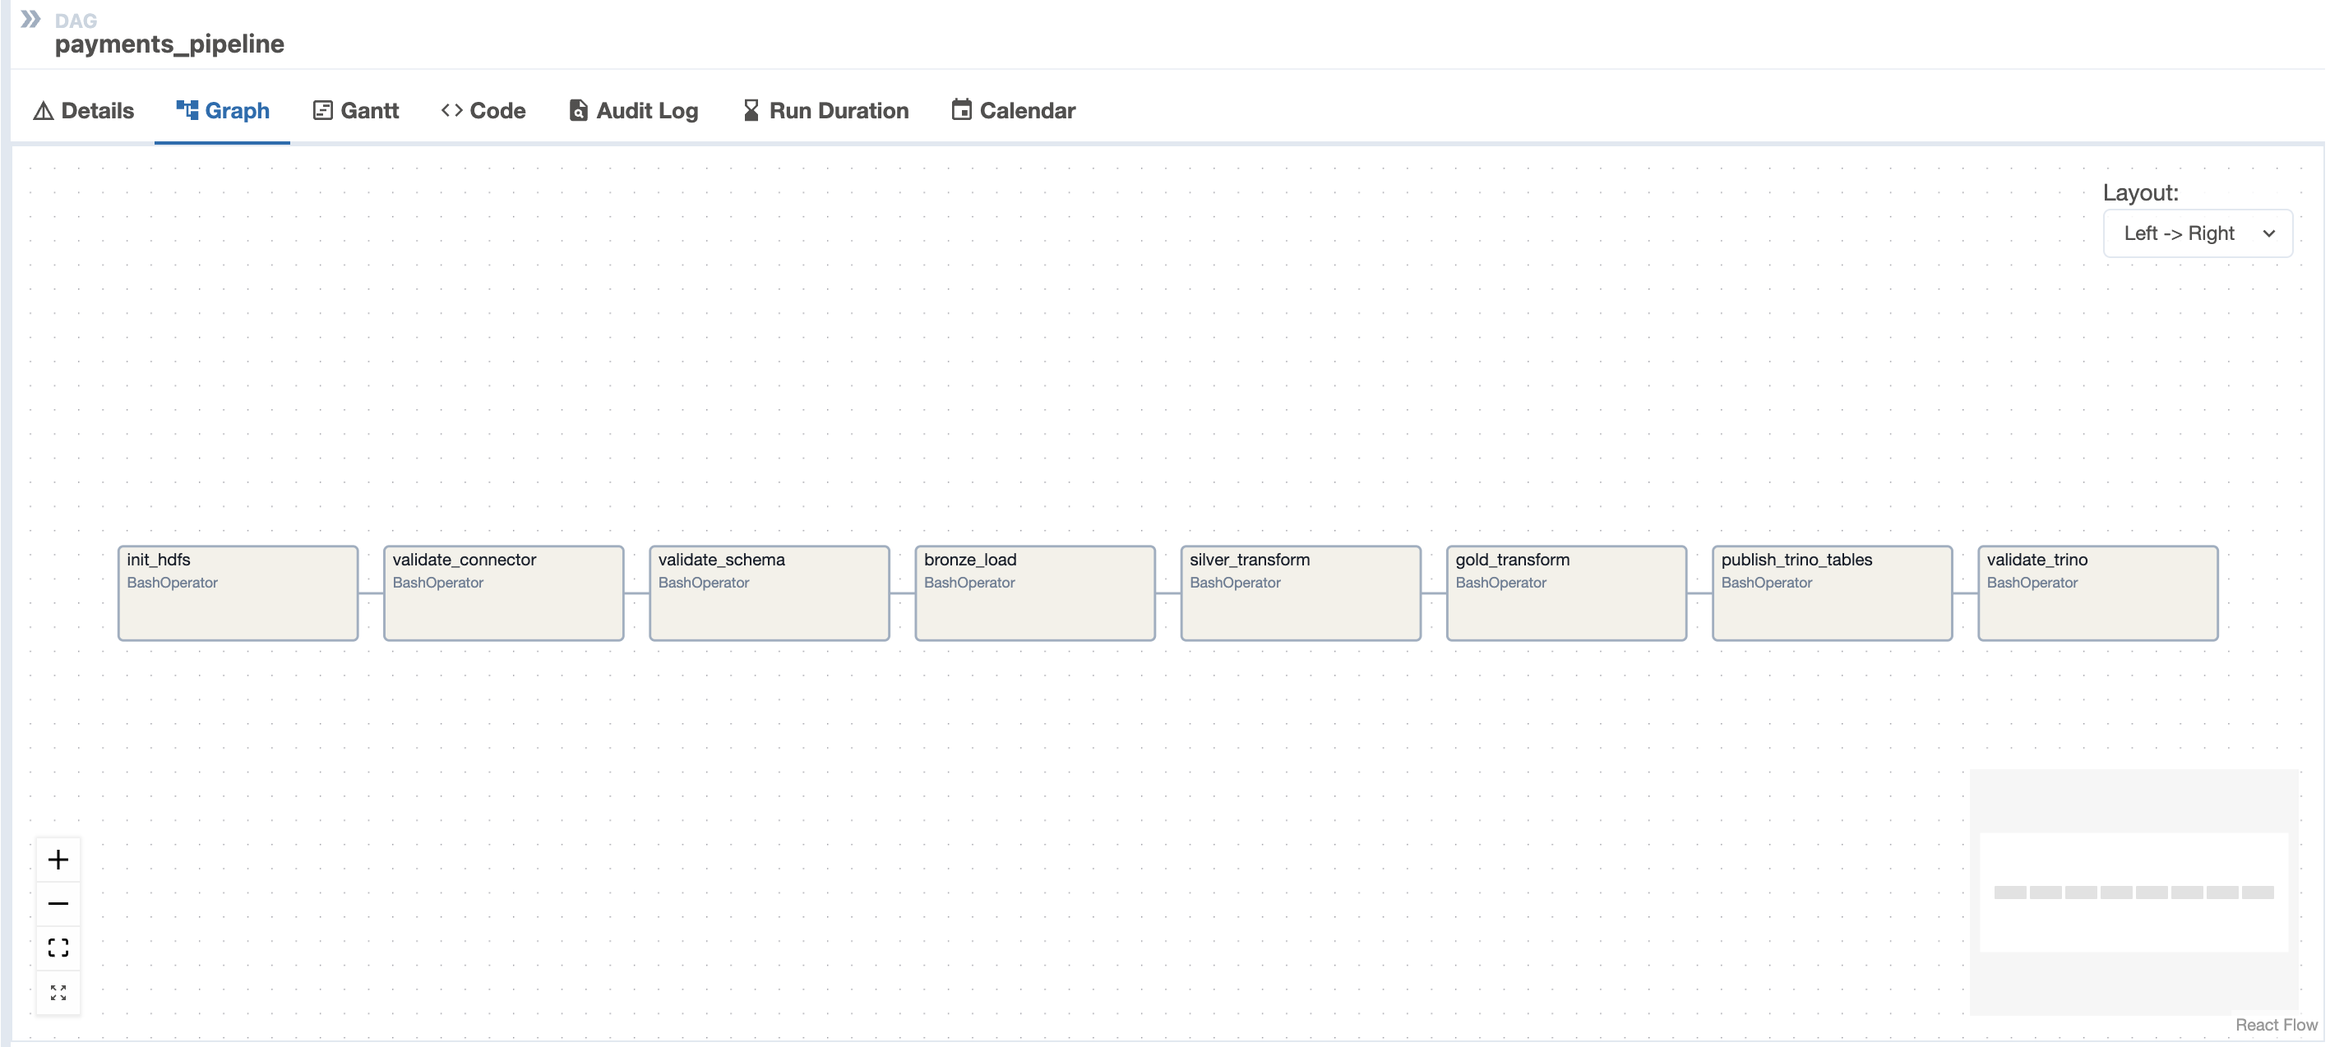
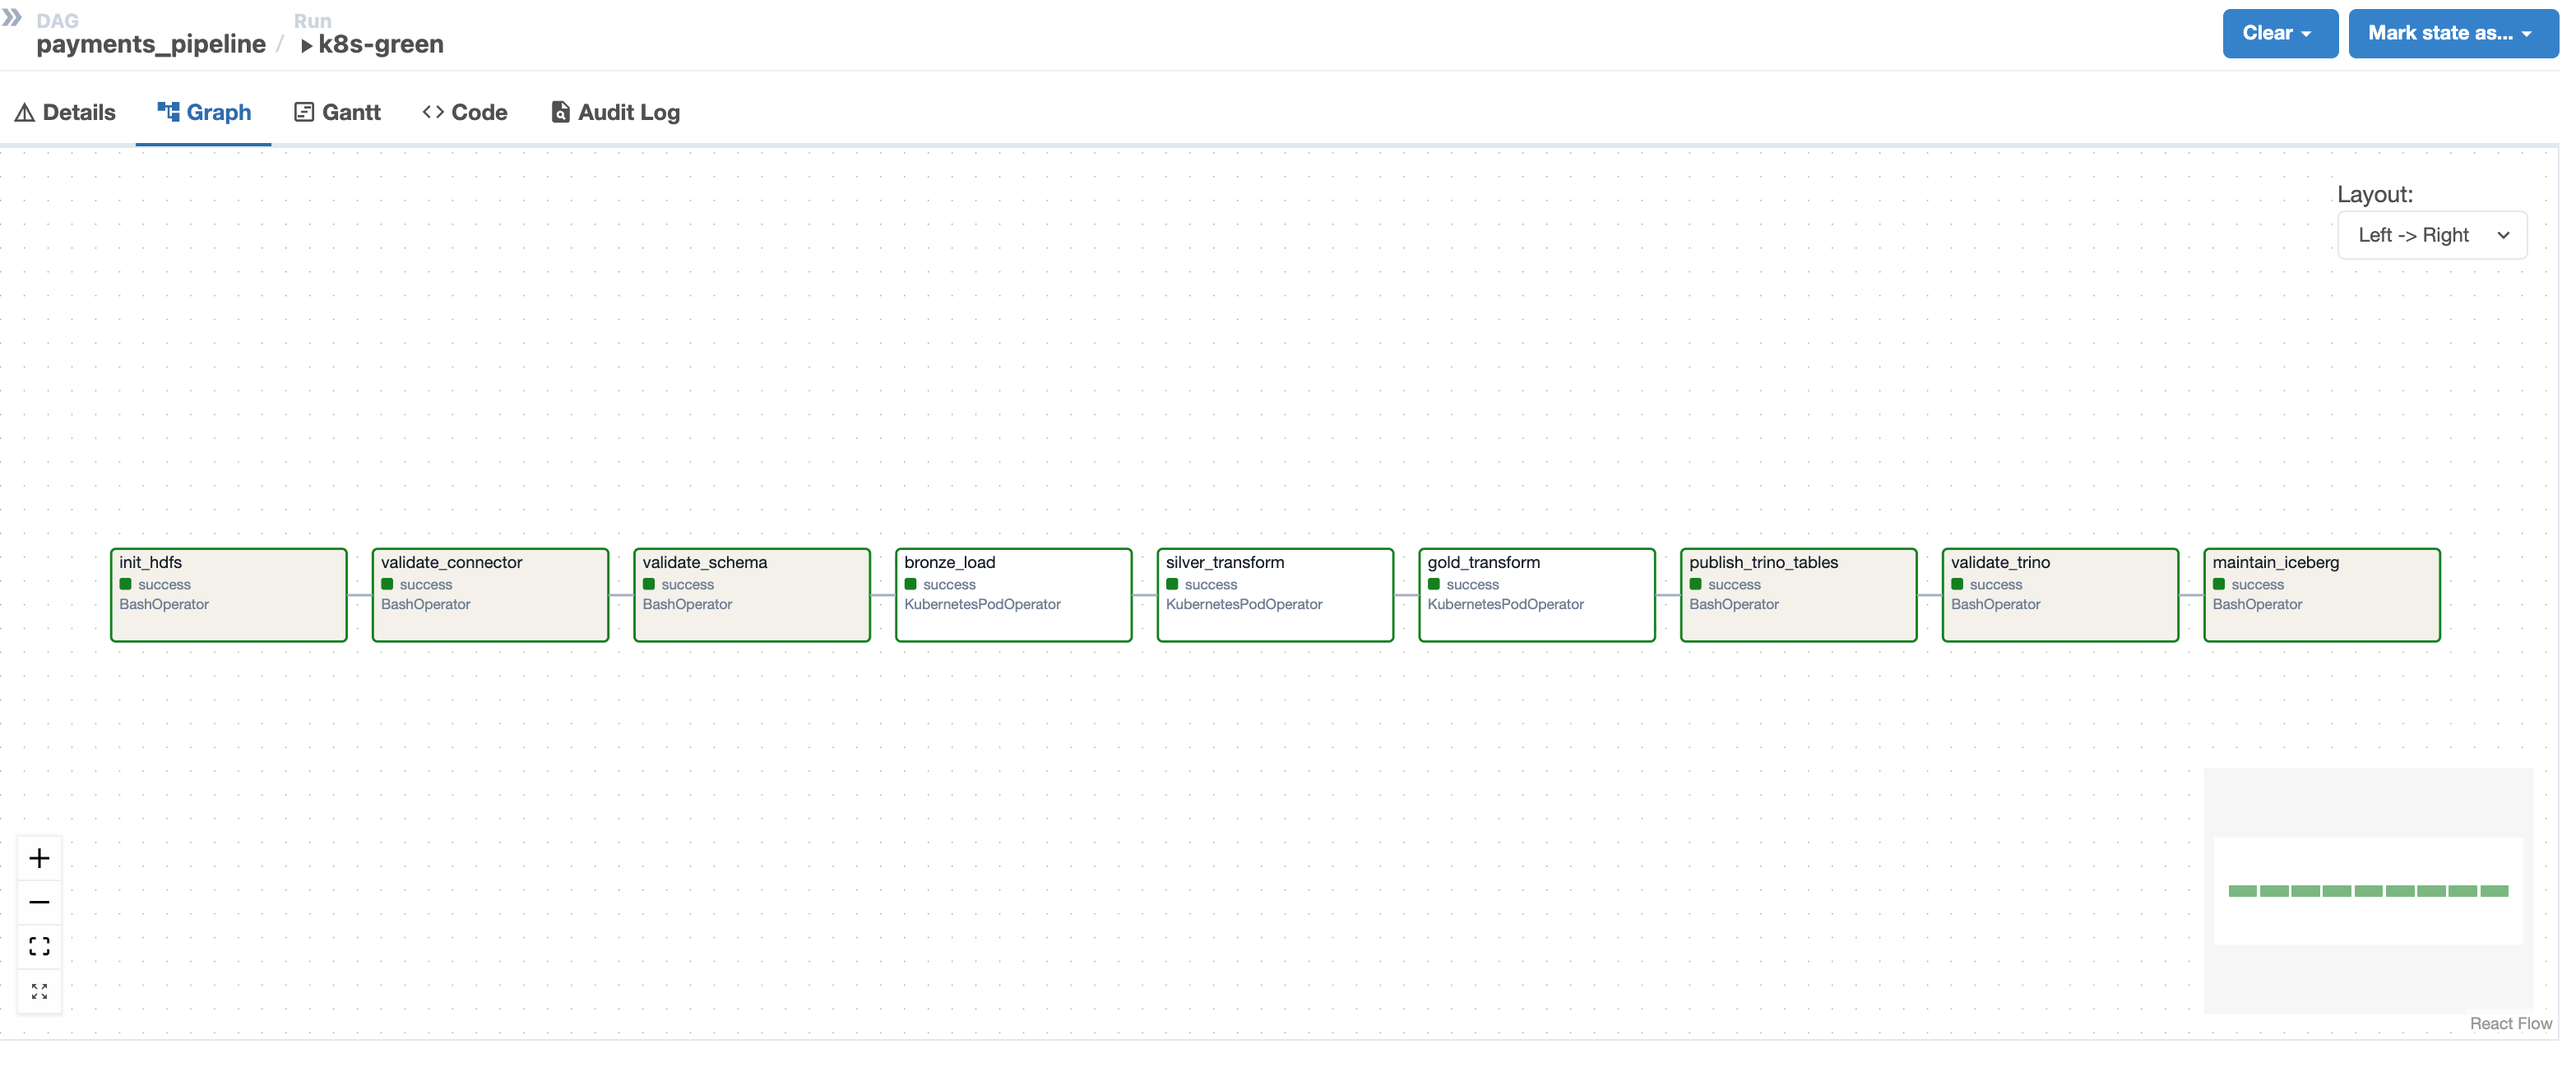
Refresh the Airflow screenshot with a Kubernetes-native run
The old capture predated validate_schema and maintain_iceberg, and showed a
DAG whose Spark tasks were BashOperators shelling into a Compose container.

The new one is the k8s-green run: nine tasks green, and each node labels its
operator, so bronze_load, silver_transform and gold_transform visibly run as
KubernetesPodOperator while the rest are BashOperators talking HTTP to
service names. That distinction is the whole orchestration argument, and the
graph proves it rather than asserting it.

Changed region(s): [[0.0, 0.0, 0.9626, 1.0], [0.8384, 0.1224, 1.0, 1.0], [0.8384, 0.0, 0.9936, 0.0612]]

diff --git a/docs/index.html b/docs/index.html
@@ -187,8 +187,8 @@ curl 'http://localhost:8000/v1/metrics/summary'
     <h2>The pipelines in action</h2>
     <div class="shots">
       <div class="card">
-        <img src="images/airflow-payments-pipeline.png" alt="Airflow DAG run for the payments CDC pipeline">
-        <p class="caption"><strong>Airflow</strong> — the CDC DAG: bronze → silver → gold with validation and alerting.</p>
+        <img src="images/airflow-payments-pipeline.png" alt="Airflow graph view of a successful payments_pipeline run on Kubernetes — nine tasks green, with bronze_load, silver_transform and gold_transform running as KubernetesPodOperator and the rest as BashOperator">
+        <p class="caption"><strong>Airflow</strong> — a full run on the cluster. The three Spark tasks are <code>KubernetesPodOperator</code> pods; every other task talks HTTP to a service name that resolves under Compose and Kubernetes alike.</p>
       </div>
       <div class="card">
         <img src="images/grafana-payments-demo-overview.png" alt="Grafana dashboard of payment volume, authorization rate, refunds and payment mix">

diff --git a/README.md b/README.md
@@ -368,7 +368,7 @@ This project is easiest to understand when viewed from three angles:
 
 Airflow shows the pipeline running from source validation through bronze, silver, gold, and downstream validation.
 
-![Airflow DAG showing the payments CDC pipeline run](docs/images/airflow-payments-pipeline.png)
+![Airflow graph view of a successful payments_pipeline run on Kubernetes — nine tasks green, with bronze_load, silver_transform and gold_transform running as KubernetesPodOperator and the rest as BashOperator](docs/images/airflow-payments-pipeline.png)
 
 Grafana shows the seeded demo data as business-facing metrics, including volume, authorization rate, refunds, and payment method mix.
 
